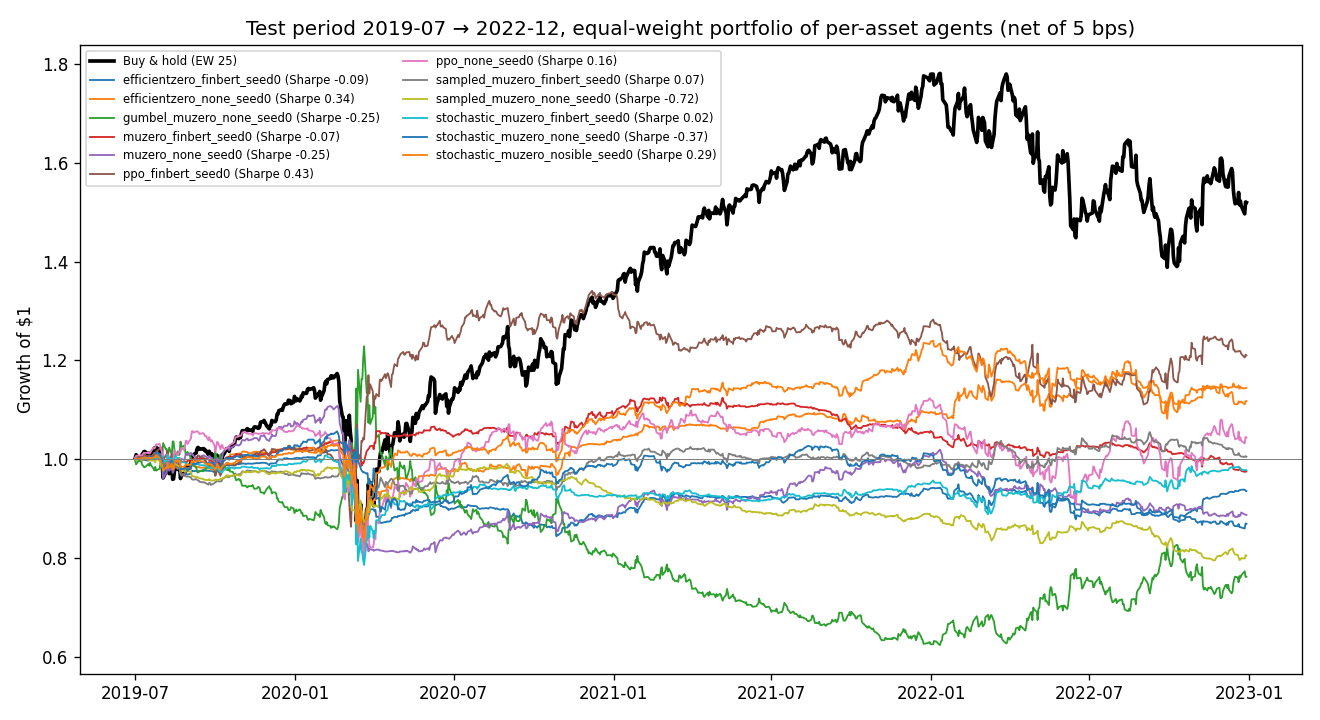
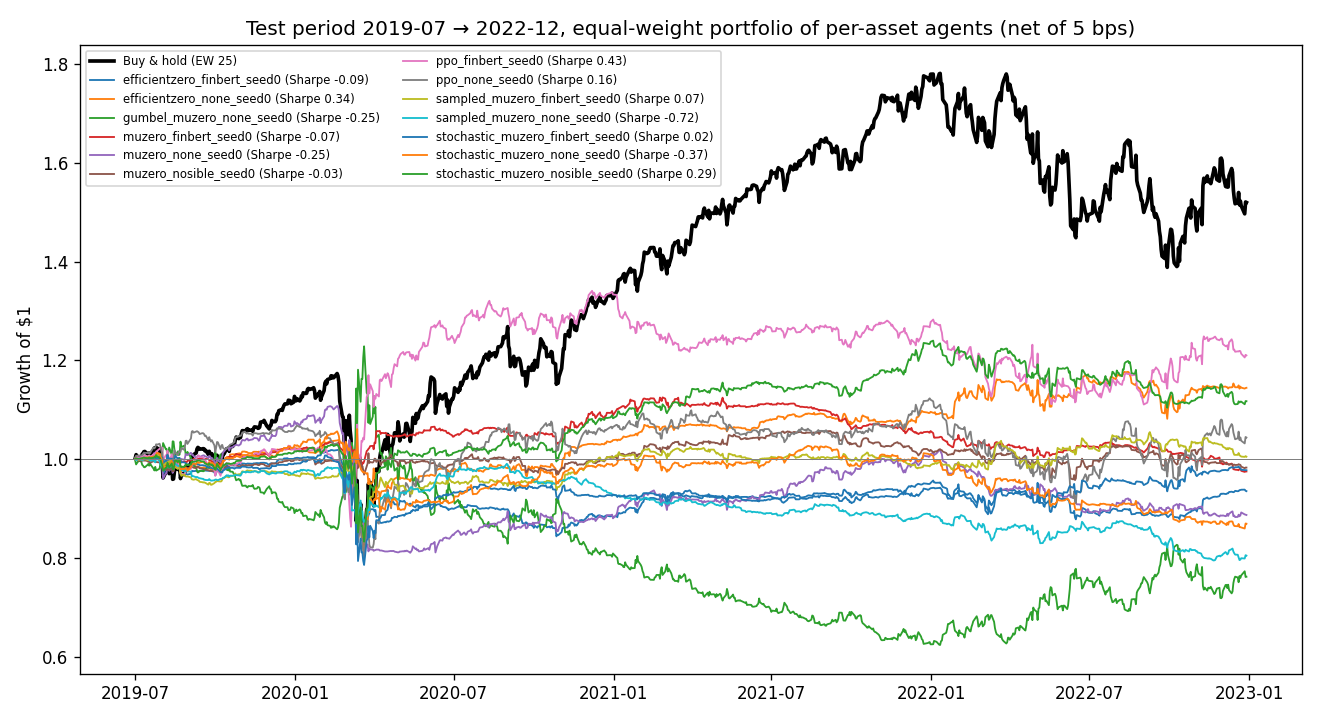
Result: MuZero + NOSIBLE sentiment

diff --git a/results/summary.md b/results/summary.md
@@ -5,6 +5,7 @@
 | gumbel_muzero_none_seed0        | gumbel_muzero     | none        |      0 |  120000 | iteration_0.pth.tar     |        -0.36 |         -0.25 | -7.4%       | -49.2%       |               5 |          -0.99 |                    -0.18 |          1.04 |
 | muzero_finbert_seed0            | muzero            | finbert     |      0 |  150000 | iteration_22000.pth.tar |         0.19 |         -0.07 | -0.7%       | -13.4%       |              31 |           0.2  |                    -0.05 |          2.64 |
 | muzero_none_seed0               | muzero            | none        |      0 |  150000 | iteration_4000.pth.tar  |         0.68 |         -0.25 | -3.3%       | -26.8%       |              40 |           0.44 |                    -0.11 |          2.64 |
+| muzero_nosible_seed0            | muzero            | nosible     |      0 |  120000 | iteration_22000.pth.tar |        -0.32 |         -0.03 | -0.5%       | -9.4%        |              34 |           0.23 |                    -0.03 |          2.33 |
 | ppo_finbert_seed0               | ppo               | finbert     |      0 | 1000000 | eval5                   |         1.79 |          0.43 | 5.6%        | -17.1%       |              76 |           0.4  |                     0.27 |          0    |
 | ppo_none_seed0                  | ppo               | none        |      0 | 1000000 | eval1                   |         0.21 |          0.16 | 1.2%        | -25.0%       |              68 |           0.45 |                     0.13 |          0    |
 | sampled_muzero_finbert_seed0    | sampled_muzero    | finbert     |      0 |  120000 | iteration_22000.pth.tar |        -0.46 |          0.07 | 0.2%        | -16.3%       |              36 |           0.14 |                     0.01 |          1.94 |

diff --git a/README.md b/README.md
@@ -118,6 +118,7 @@ Full table: `results/summary.md`; equity curves: `results/equity_curves_test.png
 | *Buy & hold* | – | 0.69 | **0.65** | 12.7% | −29.4% | 0.3 | 1.00 |
 | MuZero | none | 0.68 | −0.25 | −3.3% | −26.8% | 40 | 0.44 |
 | MuZero | FinBERT | 0.19 | −0.07 | −0.7% | −13.4% | 31 | 0.20 |
+| MuZero | NOSIBLE | -0.32 | -0.03 | -0.5% | -9.4% | 34 | 0.23 |
 | EfficientZero | none | 0.47 | 0.34 | 3.9% | −23.0% | 37 | 0.24 |
 | EfficientZero | FinBERT | 0.60 | −0.09 | −1.9% | −18.6% | 28 | 0.23 |
 | Gumbel MuZero | none | −0.36 | −0.25 | −7.4% | −49.2% | 5 | −0.99 |
